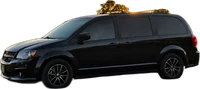
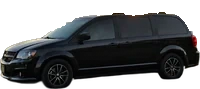
people-map: fan out stacked people; clean Grand Van cutout

diff --git a/people-map/src/room.html b/people-map/src/room.html
@@ -96,9 +96,22 @@ body.solo{background:#d4d6dc}
     });
     if (!last.length) who.innerHTML = '<div class="empty">Nobody is sharing yet</div>';
     if (!fitted && last.length) { fitAll(); fitted = true; }
+    setTimeout(spread, 0);
     $("tag").textContent = last.length ? (DEMO ? "Sample spots · " : "") + last.length + " showing · " + new Date().toLocaleTimeString([], { hour: "numeric", minute: "2-digit" }) : "";
     tellHeight();
   }
+  function spread(){ // fan out people who sit on top of each other so every face shows
+    var placed = [];
+    last.forEach(function(p){
+      var m = markers[p.key]; if (!m || !m._icon) return;
+      var pt = map.latLngToLayerPoint(m.getLatLng()), dx = 0, tries = 0;
+      while (tries++ < 8 && placed.some(function(q){ return Math.abs(q.x - (pt.x + dx)) < 58 && Math.abs(q.y - pt.y) < 48; }))
+        dx = dx <= 0 ? -dx + 60 : -dx;
+      m._icon.style.marginLeft = (parseFloat(m.options.icon.options.iconAnchor[0]) * -1 + dx) + "px";
+      placed.push({ x: pt.x + dx, y: pt.y });
+    });
+  }
+  map.on("zoomend viewreset", spread);
   function tellHeight(){ try { window.parent.postMessage({ type: "ohana-waldo-height", h: document.documentElement.scrollHeight }, location.origin); } catch (e) {} }
   window.addEventListener("resize", function(){ map.invalidateSize(); tellHeight(); });
   function note(t){ var n = $("note"); n.textContent = t; n.classList.add("on"); setTimeout(function(){ n.classList.remove("on"); }, 3500); }
